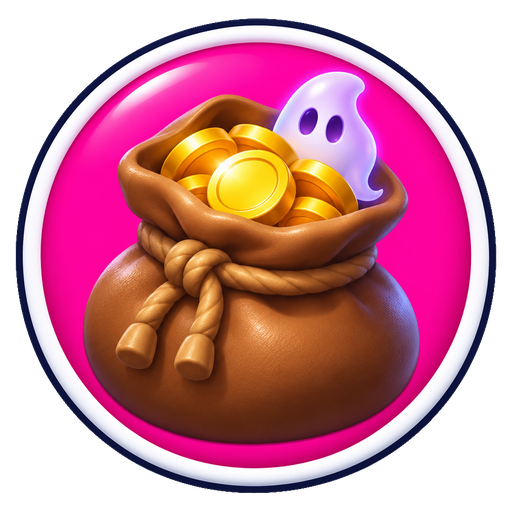
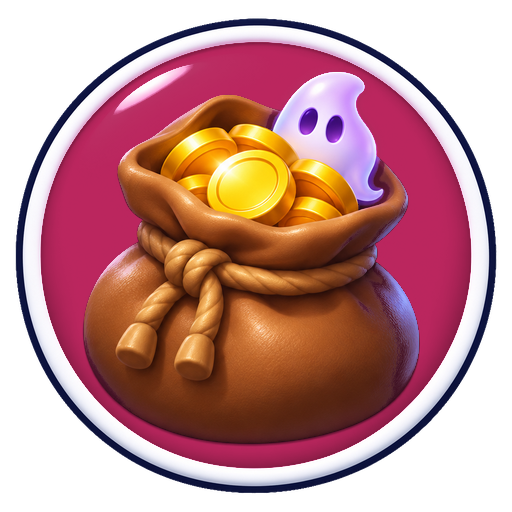
원한 자루 지도 표시 산딸기색 승인 + 재시작 인계
검수 OK B berry: art/ui/MapGrudgeSack.png replaced, approved.json recolor/reupload notes. Handoff: what to resume after the app restart.

Changed region(s): [[0.0625, 0.0625, 0.9375, 0.9375]]

diff --git a/docs/handoff/img2_2026-10-08.md b/docs/handoff/img2_2026-10-08.md
@@ -38,3 +38,8 @@
 - **HaloGold 가운데 장식 고침(검수 10/08, 0크레딧)** `art/review/s2/halogold_emblem_fix.jpg`: 루비(352) → 밝은 금(46,0.6,1.15), R4·R5는 가운데 둥근 부분만(`acc_masks.py ... 1024 0.05` → `build/acctex/masks/Acc_HaloR{4,5}_emblemcore.png`, 테마 키 `emblem_mask`). R3·R4·R5만 바뀜(R1R2 렌더 같음 → 다시 올릴 필요 없음). approved.json `AccTheme_HaloGold` ids R3~R5 → `ids_old_red`로 옮김, sparkle (255,210,120). 검수 OK 뒤 이미지 개발이 3장 다시 올림.
   - 뾰족한 해 모양 자체는 R4·R5 메시(모든 후광 테마 공통) — 텍스처로는 못 바꿈.
 - 대기 중 일(검수 큐): Emo 3장 8 시안·빛살 묶음 12 시안(문구 `art/prompts/{EmoOuch2,EmoStress2,EmoAngry2,FxHitSpark2,FxMagicBurst2,ShieldHalo2,BadgeHaloR4b,BadgeHaloR5b,PTR_TownBright2,FactionPick*_Medal}_*.txt`, 큐 `build/montex/{emo_queue,rays_med,rays_ref}.js`) — 내장 브라우저가 숨김이라 대기(Ctrl+Shift+B 필요). #2 진영 메달 = 메달만 잘라 참조(`art/out/s2/fp/*_medal_ref.png`, Adobe halo-horns-refs/rays/) → 틀 안쪽만 바꿔 끼우기. 치장 아이콘 10장(R3 3/4 렌더 누끼)도 받음.
+
+## 재시작 뒤 이어서 할 것 (10/08 오후, 검수 정리 요청)
+1. Firefly 로그인 확인(내장 브라우저, 1440×900, `tools/img2/firefly_helpers.js` 다시 넣기) → 시안 돌리기: ①진영 메달 4(`build/montex/rays_ref.js` 앞 4, 참조 Adobe halo-horns-refs/rays/) ②Emo 8(`build/montex/emo_queue.js`) ③빛살 묶음(`rays_med.js` + `rays_ref.js` 나머지) → 시트 → 검수.
+2. 검수 큐 다음: #4 전투 효과 5장(FxSlash·FxShockRing·FxDust 문구 아직 — RewardGlow/Sparkle 참조), #11 방패(LevelBadge 참조), #13 지도 아이콘(IconSkills·IconBag 참조), #41 몬스터·재료 아이콘 4장. 옛 UIP_*는 참조 금지.
+3. 이미지 개발 id 기다리는 것: Look* 10, CLS_*_Card 8, MapGrudgeSack, HaloGold R3~R5 → approved.json에 적기.
